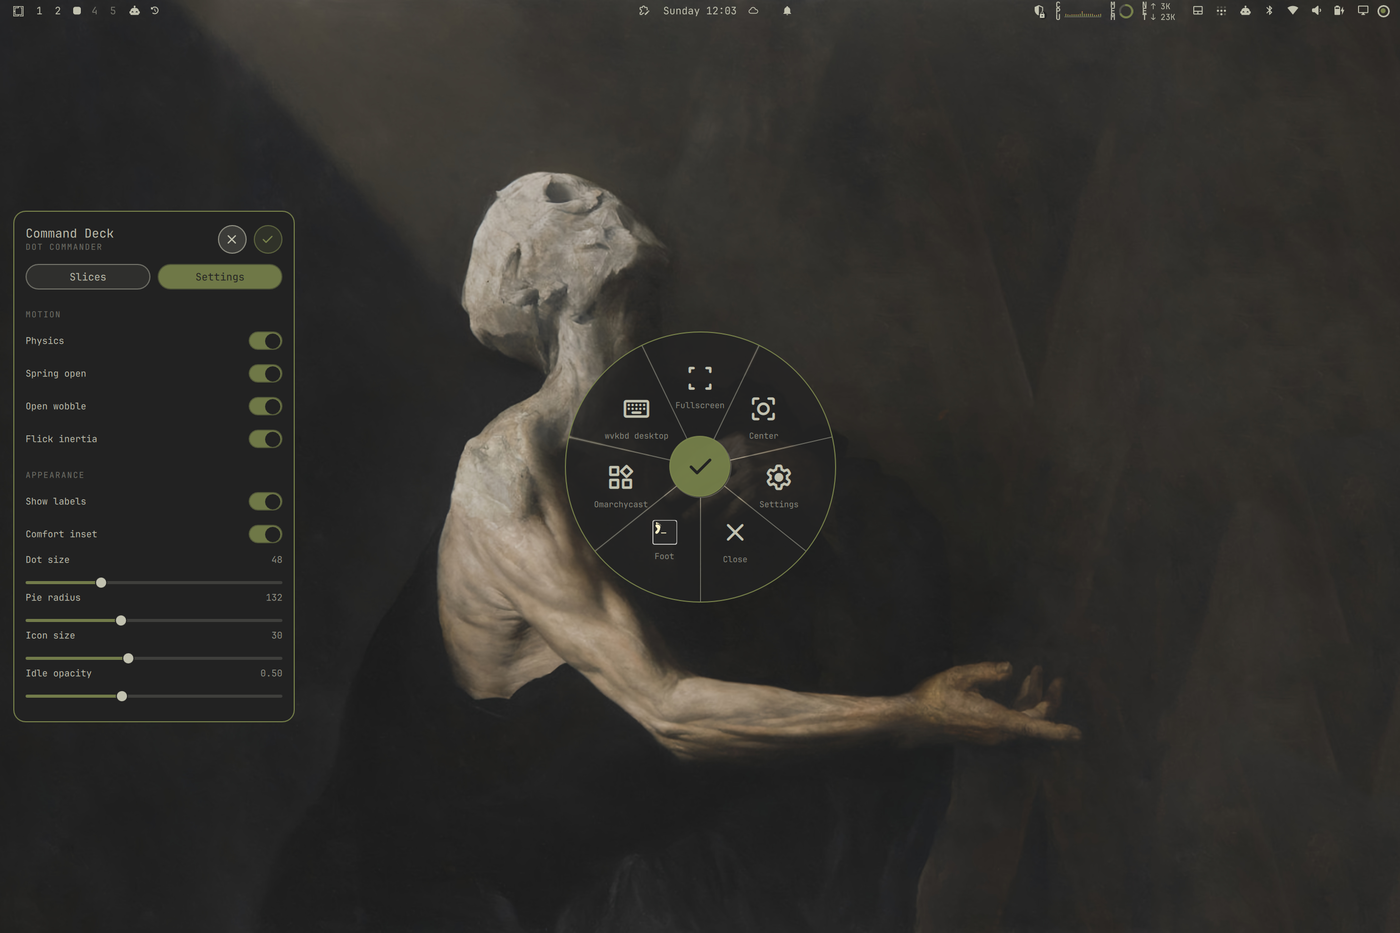
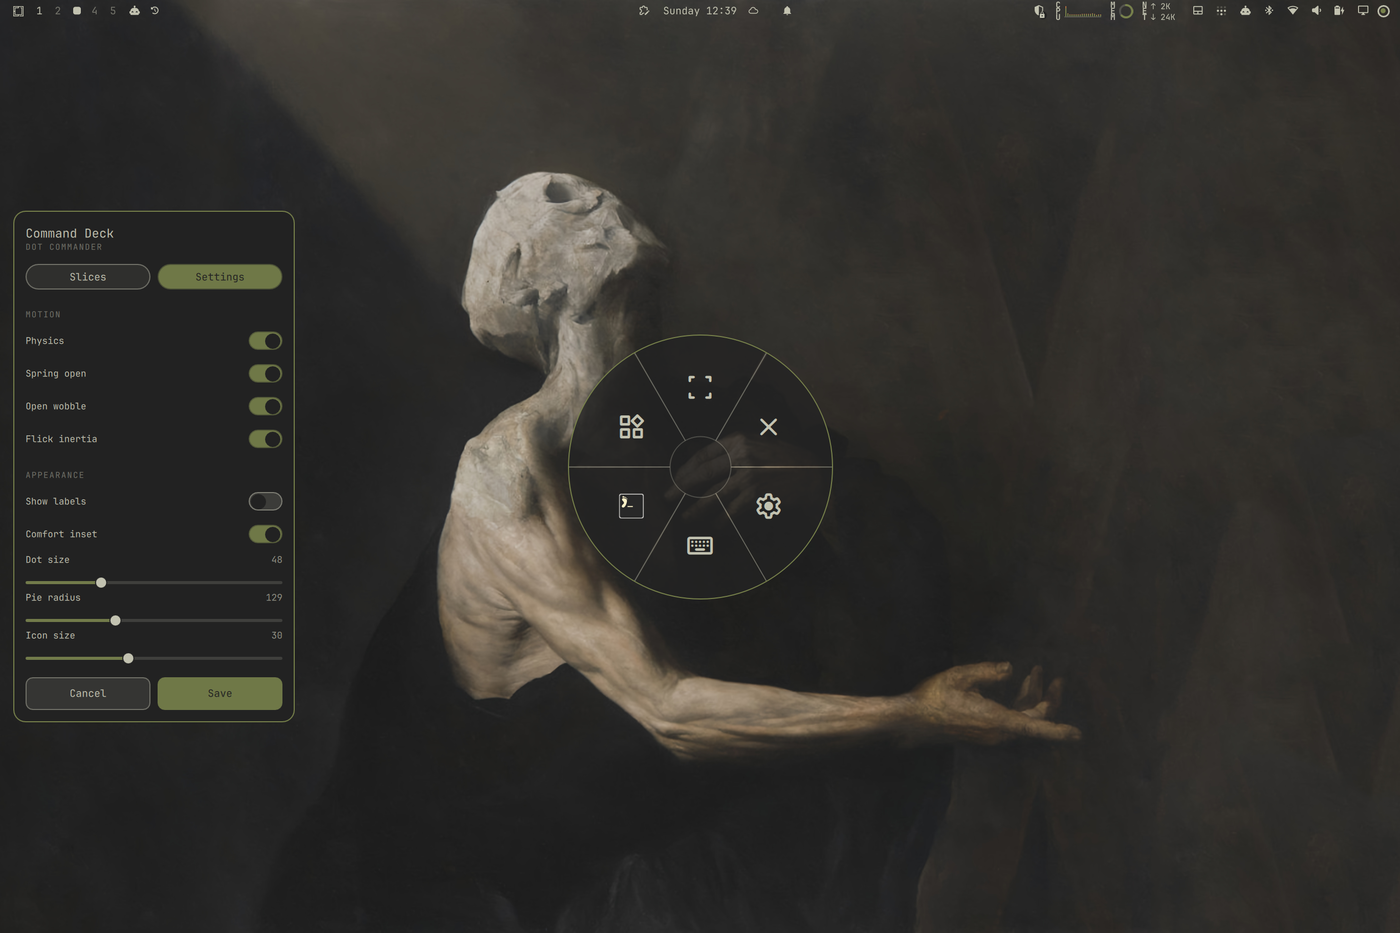
Rename to Dot Commander; radial drag-select; move Save/Cancel to a deck footer
- Rename the project Dot Com -> Dot Commander across the manifest, README and
  UI strings.
- Drag outward from the idle dot to fan the pie and pick a slice: the slice
  under the finger highlights and runs on release. Moving the dot still needs
  the hold, so the two never compete.
- Move Save and Cancel from the header to a dialog-style footer (Cancel left,
  Save right) and drop the centre hub button. Escape now acts as Cancel, which
  asks before discarding, instead of silently dropping slice edits.

diff --git a/Dot.qml b/Dot.qml
@@ -93,6 +93,10 @@ Item {
   property real squashX: 1
   property real squashY: 1
   property bool slicePressed: false
+  // Radial drag-select from the idle dot: drag outward to fan the pie and pick
+  // a slice, with no hold required. Moving the dot still needs the hold.
+  property bool radialSelecting: false
+  readonly property real radialThreshold: Style.space(24)
   // Drag velocity, low-pass filtered, for the release glide.
   property real vX: 0
   property real vY: 0
@@ -482,8 +486,7 @@ Item {
 
   // -------------------------------------------------------------- Dot Commander
   //
-  // Dot Com is short for Dot Commander -- which is a mouthful, so the dot goes
-  // by Dot Com. The Commander gets a slice, a hidden IPC call, and a first-run
+  // The Commander easter eggs: a slice, a hidden IPC call, and a first-run
   // salute.
   readonly property var commanderQuips: [
     "All systems nominal, Commander.",
@@ -502,7 +505,7 @@ Item {
   // Hidden IPC: omarchy-shell shell call io.github.shaggyd.dotcom commander
   function commander() {
     var line = root.commanderLine()
-    root.sendNotification("Dot Com", line)
+    root.sendNotification("Dot Commander", line)
     return JSON.stringify({ name: "Dot Commander", line: line })
   }
 
@@ -521,7 +524,7 @@ Item {
     next.greeted = true
     root.config = next
     root.persist()
-    root.sendNotification("Dot Com", "Short for Dot Commander. Reporting for duty.")
+    root.sendNotification("Dot Commander", "Reporting for duty.")
   }
 
   // -------------------------------------------------------------- edit mode
@@ -595,6 +598,16 @@ Item {
     root.confirmCancel = false
     root.configBackup = null
     root.syncStableIds()
+  }
+
+  // Escape: back out of the picker, otherwise act as the deck's Cancel (which
+  // asks before discarding unsaved slices), or dismiss the pie in use mode.
+  // Previously Escape dismissed the overlay outright, which threw away the
+  // slice edits without a word.
+  function escapeAction() {
+    if (root.mode === "pick") { root.mode = "edit"; root.pickIndex = -1; return }
+    if (root.mode === "edit") { root.cancelEdit(); return }
+    root.dismiss()
   }
 
   // First outside tap arms the discard; a second within the window does it.
@@ -1689,6 +1702,58 @@ Item {
     return true
   }
 
+  // ---- radial drag-select -------------------------------------------------
+  //
+  // A quick outward drag from the idle dot fans the pie and highlights whatever
+  // slice the finger is over; releasing runs it. This is deliberately the
+  // opposite timing to moving the dot: the move needs a hold in the centre,
+  // while this fires the moment the finger travels outward, so the two never
+  // compete.
+
+  function beginRadialSelect() {
+    holdTimer.stop()
+    root.radialSelecting = true
+    // The hold was arming a drag; that is cancelled outright, so the dot stays
+    // put and the select takes over.
+    root.dragging = false
+    root.dragArmed = false
+    root.moved = false
+    root.holding = false
+    root.holdProgress = 0
+    root.squashX = 1
+    root.squashY = 1
+    root.pressedWhileOpen = false
+    root.open("{}")
+    root.updateRadialSelect()
+  }
+
+  function updateRadialSelect() {
+    var p = dotInput.mapToItem(screenSpace, dotInput.mouseX, dotInput.mouseY)
+    var dx = p.x - root.pieCentre.x
+    var dy = p.y - root.pieCentre.y
+    var d = Math.sqrt(dx * dx + dy * dy)
+    // Past the hub the slice under the finger lights up (and, being pressed,
+    // springs out); inside the hub nothing is selected.
+    root.hoveredSlice = (d >= root.innerRadius) ? root.sliceAt(p.x, p.y) : -1
+    root.slicePressed = root.hoveredSlice >= 0
+  }
+
+  function endRadialSelect() {
+    var index = root.hoveredSlice
+    root.radialSelecting = false
+    root.slicePressed = false
+    root.hoveredSlice = -1
+    if (index < 0 || index >= root.displaySlices.length) { root.dismiss(); return }
+    var slice = root.displaySlices[index]
+    if (!slice) { root.dismiss(); return }
+    // Editor commands act on the pie itself, so they must not collapse it first.
+    if (slice.plugin) { root.runSlice(slice); return }
+    // Let the pie collapse before the action runs, as a tap does.
+    root.dismiss()
+    root.pendingSlice = slice
+    actionDelay.restart()
+  }
+
   // The release glide. Runs while `dragging` is still true, so dotX/dotY keep
   // reading dragX/dragY; on finish it persists the resting spot and clears the
   // drag state. remembersPosition() must run before dragging clears, or it
@@ -1716,6 +1781,7 @@ Item {
     interval: 50
     repeat: true
     onTriggered: {
+      if (root.radialSelecting) return
       if (root.dragArmed) {
         // Keep sampling for as long as the finger is down.
         if (root.dragging) root.sampleDrag()
@@ -1787,7 +1853,7 @@ Item {
       anchors.fill: parent
       visible: root.opened
       focus: root.opened
-      onCloseRequested: root.dismiss()
+      onCloseRequested: root.escapeAction()
     }
 
     // ------------------------------------------------------------------- pie
@@ -2356,11 +2422,17 @@ Item {
         // The enlarged hit area is the whole point of a touch target; without
         // it the dot is a 48px coin you have to aim at.
         anchors.margins: -Style.space(12)
-        preventStealing: true
-        acceptedButtons: Qt.LeftButton
-        hoverEnabled: true
+      preventStealing: true
+      acceptedButtons: Qt.LeftButton
+      hoverEnabled: true
 
-        onContainsMouseChanged: root.hovering = containsMouse
+      // Where the press began, so a radial select is measured as finger travel
+      // rather than distance from the dot centre (an off-centre press should
+      // not trigger it on the first pixel of movement).
+      property real downX: 0
+      property real downY: 0
+
+      onContainsMouseChanged: root.hovering = containsMouse
 
         onPressed: {
           root.moved = false
@@ -2372,6 +2444,9 @@ Item {
           root.vX = 0
           root.vY = 0
           root.lastSampleT = 0
+          root.radialSelecting = false
+          dotInput.downX = dotInput.mouseX
+          dotInput.downY = dotInput.mouseY
           if (root.config.physics) { root.squashX = 1.16; root.squashY = 0.86 }
           // Pressing the dot always collapses the pie, whether or not the hold
           // goes on to arm a drag. Deciding that here -- rather than letting a
@@ -2393,6 +2468,17 @@ Item {
         }
 
         onPositionChanged: function (mouse) {
+          if (root.radialSelecting) { root.updateRadialSelect(); return }
+          // A quick outward drag before the hold arms is a radial select; the
+          // hold is still what gates moving the dot, so the two never compete.
+          if (!root.dragArmed && !root.opened && !root.pressedWhileOpen) {
+            var mx = dotInput.mouseX - dotInput.downX
+            var my = dotInput.mouseY - dotInput.downY
+            if (Math.sqrt(mx * mx + my * my) > root.radialThreshold) {
+              root.beginRadialSelect()
+              return
+            }
+          }
           // Movement before the hold completes is ignored on purpose: the dot
           // must not chase a finger that was only aiming for a tap.
           root.sampleDrag()
@@ -2400,6 +2486,7 @@ Item {
 
         onReleased: {
           holdTimer.stop()
+          if (root.radialSelecting) { root.endRadialSelect(); return }
           var wasDrag = root.moved
           root.holding = false
           root.holdProgress = 0
@@ -2431,6 +2518,8 @@ Item {
 
         onCanceled: {
           holdTimer.stop()
+          root.radialSelecting = false
+          root.slicePressed = false
           root.dragging = false
           root.dragArmed = false
           root.holding = false
@@ -2492,14 +2581,6 @@ Item {
                 font.letterSpacing: 1
               }
             }
-
-            Row {
-              anchors.right: parent.right
-              anchors.verticalCenter: parent.verticalCenter
-              spacing: Style.space(8)
-              DeckRound { glyph: Catalog.g(0xE14C); tint: Color.foreground; onTapped: root.cancelEdit() }
-              DeckRound { glyph: Catalog.g(0xE5CA); tint: Color.accent; onTapped: root.commitEdit() }
-            }
           }
 
           Row {
@@ -2530,7 +2611,7 @@ Item {
 
           Flickable {
             width: parent.width
-            height: deckColumn.height - y
+            height: deckColumn.height - y - deckFooter.height - Style.space(10)
             contentWidth: width
             contentHeight: deckBody.implicitHeight
             clip: true
@@ -2546,6 +2627,31 @@ Item {
                 visible: root.deckTab === "slices"
                 width: parent.width
                 spacing: Style.space(6)
+
+                // Rotate the whole ring, which is distinct from moving one
+                // slice: the old floating bar's rotate buttons, reborn here.
+                // An Item, not a Row: the label and buttons need left/right
+                // anchors, which a Row forbids on its children.
+                Item {
+                  width: parent.width
+                  height: Style.space(34)
+
+                  Text {
+                    anchors.left: parent.left
+                    anchors.verticalCenter: parent.verticalCenter
+                    text: "Rotate ring"
+                    color: Util.alpha(Color.foreground, 0.8)
+                    font.family: Style.font.menuFamily
+                    font.pixelSize: Style.font.bodySmall
+                  }
+                  Row {
+                    anchors.right: parent.right
+                    anchors.verticalCenter: parent.verticalCenter
+                    spacing: Style.space(4)
+                    DeckRowButton { glyph: Catalog.g(0xE5CB); onTapped: root.rotateDraft(-1) }
+                    DeckRowButton { glyph: Catalog.g(0xE5CC); onTapped: root.rotateDraft(1) }
+                  }
+                }
 
                 Repeater {
                   model: root.draftSlices.length
@@ -2682,39 +2788,55 @@ Item {
               }
             }
           }
+
+          // Footer. Cancel on the left, Save (primary) on the right -- the way
+          // a dialog footer reads.
+          Row {
+            id: deckFooter
+            width: parent.width
+            spacing: Style.space(8)
+
+            Rectangle {
+              width: (deckFooter.width - Style.space(8)) / 2
+              height: Style.space(38)
+              radius: Style.space(8)
+              color: Util.alpha(Color.foreground, 0.12)
+              border.width: Math.max(1, Style.space(1))
+              border.color: Util.alpha(Color.foreground, 0.5)
+              Text {
+                anchors.centerIn: parent
+                text: "Cancel"
+                color: Color.foreground
+                font.family: Style.font.menuFamily
+                font.pixelSize: Style.font.body
+              }
+              MouseArea { anchors.fill: parent; onClicked: root.cancelEdit() }
+            }
+
+            Rectangle {
+              width: (deckFooter.width - Style.space(8)) / 2
+              height: Style.space(38)
+              radius: Style.space(8)
+              color: Util.alpha(Color.accent, 0.9)
+              border.width: Math.max(1, Style.space(1))
+              border.color: Util.alpha(Color.accent, 0.9)
+              Text {
+                anchors.centerIn: parent
+                text: "Save"
+                color: Color.background
+                font.family: Style.font.menuFamily
+                font.pixelSize: Style.font.body
+              }
+              MouseArea { anchors.fill: parent; onClicked: root.commitEdit() }
+            }
+          }
         }
       }
     }
 
-    // The hub while editing: Done. Commits the draft and leaves edit mode.
-    Rectangle {
-      id: doneButton
-      visible: root.mode === "edit"
-      width: root.innerRadius * 2
-      height: width
-      radius: width / 2
-      x: Math.round(root.dotX - width / 2)
-      y: Math.round(root.dotY - height / 2)
-      color: Util.alpha(Color.accent, 0.92)
-      border.width: Math.max(1, Style.space(1))
-      border.color: root.ringBorderColor
-      z: 13
-
-      Text {
-        anchors.centerIn: parent
-        text: Catalog.g(0xE5CA)
-        color: Color.background
-        font.family: root.iconFamily
-        font.pixelSize: root.innerRadius * 1.1
-        renderType: Text.NativeRendering
-      }
-
-      MouseArea {
-        anchors.fill: parent
-        acceptedButtons: Qt.LeftButton
-        onClicked: root.commitEdit()
-      }
-    }
+    // The hub while editing is drawn by the pie chrome; saving and cancelling
+    // live in the Command Deck header, not on the dot, so the dot stays the
+    // preview's centre.
 
     // Transient notice, e.g. refusing to delete the Settings slice.
     Text {

diff --git a/Catalog.js b/Catalog.js
@@ -67,8 +67,8 @@ var SYSTEM = [
     argv: ["omarchy", "menu", "toggle", "style.theme"] },
   { key: "sys.setup",      label: "Setup",      glyph: g(0xE8B8), section: "System",
     argv: ["omarchy", "menu", "toggle", "settings"] },
-  // Dot Com is short for Dot Commander. This is the easter egg: a pickable tile
-  // that has the Commander address the bridge.
+  // The Commander easter egg: a pickable tile that has the bridge answer the
+  // salute.
   { key: "sys.commander",  label: "Commander",  glyph: g(0xEA3F), section: "System",
     plugin: "commander" }
 ]

diff --git a/README.md b/README.md
@@ -1,18 +1,16 @@
-# Dot Com
+# Dot Commander
 
 A draggable on-screen dot that opens a radial menu of window, system, keyboard
 and app actions, built for touch-first tablets on [Omarchy](https://omarchy.org).
 
 The stock Omarchy tablet experience buries the handful of actions you actually
 reach for behind small bar icons and hotkeys that assume a physical keyboard.
-Dot Com puts them under your thumb: one always-available dot you can park
+Dot Commander puts them under your thumb: one always-available dot you can park
 anywhere, and a pie that fans out on tap.
 
-**Dot Com** is short for **Dot Commander** — which is a mouthful, so the dot
-answers to Dot Com. The pie is your command wheel; the editor is the Command
-Deck.
+The pie is your command wheel; the Command Deck is where you configure it.
 
-![The Dot Com pie open over the desktop](preview.png)
+![The Dot Commander pie open over the desktop](preview.png)
 
 ## What it does
 
@@ -144,7 +142,7 @@ reloads the file on save, so you can also edit it by hand.
 A stored slice references the catalog by `key`, so catalog fixes propagate to it
 automatically. A slice can also be a raw entry carrying `label`, `glyph`, and one
 of `hypr` (a Hyprland dispatch), `argv` (an argument vector), `app` (launched via
-the shell's app library) or `plugin` (handled inside Dot Com), plus `repeat` for
+the shell's app library) or `plugin` (handled inside Dot Commander), plus `repeat` for
 ramping slices.
 
 ### Catalog keys
